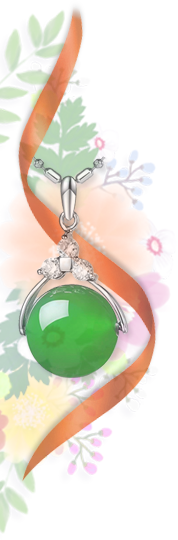
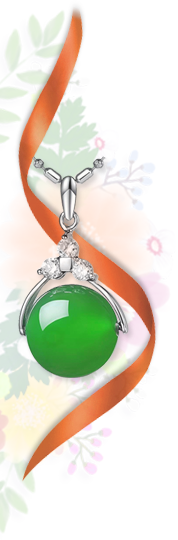
6++

diff --git a/luodiye/6.html b/luodiye/6.html
@@ -14,47 +14,48 @@
 	<body>
 		<!--头版banner-->
 		<div class="banner pos">
-			<img src="6/banner.png" class="full-img" />
-			<a href="http://www.dwntme.com/h.ZZX7m2g?cv=Trqc0P9fhN3&amp;sm=afbcab" class="btn top-btn action" data-animate="zoomIn"></a>
+			<img src="6/banner-.png" class="full-img no-margin" />
+			<img src="6/point.png" class="point action" data-animate="fadeIn" data-delay="0.2s"/>
+			<a href="http://www.dwntme.com/h.ZZX7m2g?cv=Trqc0P9fhN3&amp;sm=afbcab" class="btn top-btn action" data-animate="fadeInDown" data-delay = "0.5s"></a>
 		</div>
 		
 		<div class="intro">
-			<img src="6/2human.png" class="human action" data-animate="fadeIn" alt="" />
-			<div class="para indent">
-				 购买翡翠却不知从何入手？主播带你走进玉都翡翠市场最新颖潮流的翡翠购买模式以最好的服务为您代购心仪翡翠
+			<img src="6/2human.png" class="human action" data-animate="fadeInLeft" alt="" />
+			<div class="para indent action" data-animate="fadeInRight">
+				 购买翡翠却不知从何入手？元合玉主播星星带你走进玉都翡翠市场，在最新颖潮流的翡翠购买模式下，以最好的服务为您代购心仪翡翠。
 			</div>
 		</div>
 		
 		<div class="jade">
-			<h4 class="title color txt-center">翡翠天成 尊贵永恒</h4>
-			<img src="6/3goods.png" class="full-img action" data-animate="fadeIn" />
+			<h4 class="title color txt-center"></h4>
+			<img src="6/3goods.png" class="full-img action" data-animate="zoomIn" />
 		</div>
 		
 		<div class="main">
 			<div class="head">
-				<h4 class="title color txt-center">元合玉翡翠</h4>
+				<h4 class="title color txt-center action" data-animate="fadeInUp"></h4>
 			</div>
-			<div class="para indent action" data-animate="slideInUp" >
-				位于粤东国家文化产业示范基地——阳美玉文化（创意）产业园，拥有专业资质的主播团队，管理严谨，服务一流，是翡翠行业的翘楚，深受广大客户的认可。您的满意使我们最大的动力。
+			<div class="para indent action" data-animate="fadeIn" >
+				公司位于粤东国家文化产业示范基地——阳美玉文化（创意）产业园，拥有专业资质的主播团队，管理严谨，服务一流，是国内翡翠行业的翘楚，深受广大客户的认可，您的满意是我们最大的动力。
 			</div>
 		</div>
 		<ul class="card-list">
 			<li class="card1">
 				<div class="card-title">
-					<div class="chn">阳美玉都 地利人和</div>
-					<div class="eng">YANGMEI THE CITY OF JADE</div>
+					<div class="chn">位于玉都 地利人和</div>
+					<div class="eng">LOCATED IN CITY OF JADE</div>
 				</div>
 				<ul class="left">
-					<li>
+					<li class="action" data-animate="fadeInLeft" >
 						<dl>
 							<dt>翡翠之都</dt>
-							<dd>揭阳阳美是全国最大最集中的翡翠玉器加工基地，加工贸易形成一条龙作业，汇集了南北玉雕工艺大全，独具特色技艺</dd>
+							<dd>揭阳阳美是全国最大最集中的翡翠玉器加工基地，加工贸易形成一条龙作业，汇集了南北玉雕工艺大全，独具特色技艺。</dd>
 						</dl>
 					</li>
-					<li>
+					<li class="action" data-animate="fadeInLeft">
 						<dl>
 							<dt>贸易宝地</dt>
-							<dd>产品销往中国各地以及东南亚国家和地区，将成为中国乃至东南亚等国家和地区的加工生产贸易之宝地</dd>
+							<dd>产品销往中国各地以及东南亚国家和地区，将成为中国乃至东南亚等国家和地区的加工生产贸易之宝地。</dd>
 						</dl>
 					</li>
 				</ul>
@@ -67,10 +68,10 @@
 				</div>
 				<img src="6/6pic.png" class="full-img no-margin left action" data-animate="zoomIn"/>
 				<ul class="right">
-					<li>从业五年以上的经验</li>
-					<li class="pull">丰富的看货选货技巧</li>
-					<li class="pull">每天经手成千上百件</li>
-					<li>切实敬业为顾客服务</li>
+					<li class="action" data-animate="fadeInRight" data-delay="0.0s"><span class="num"></span>从业五年以上的经验</li>
+					<li class="pull action" data-animate="fadeInRight" data-delay="0.2s"><span class="num"></span>丰富的看货选货技巧</li>
+					<li class="pull action" data-animate="fadeInRight" data-delay="0.4s"><span class="num"></span>每天经手成千上百件</li>
+					<li class="action" data-animate="fadeInRight" data-delay="0.6s"><span class="num"></span>切实敬业为顾客服务</li>
 				</ul>
 			</li>
 			<li class="card3">
@@ -78,8 +79,8 @@
 					<div class="chn">专注翡翠 诚信经营</div>
 					<div class="eng">INTERGRITY MANAGEMENT</div>
 				</div>
-				<div class="left para indent">
-					     公司以翡翠网络直播为主，专注服务于翡翠玉器领域十多年，目前已为成千上万客户成功代购到满意的翡翠饰品，深得广大粉丝信任和支持，在行业内赢得高度的赞许和评价，在接下来的日子里必定诚信经营，为您贴心服务
+				<div class="left para indent action" data-animate="fadeInLeft">
+					     公司以翡翠网络直播为主，专注服务于翡翠玉器领域十多年，目前已为成千上万客户成功代购到满意的翡翠饰品，深得广大粉丝信任和支持，在行业内赢得高度的赞许和评价，在接下来的日子里必定诚信经营，为您贴心服务。
 				</div>
 				<img src="6/7pic.png" class="full-img no-margin right action" data-animate="zoomIn"/>
 				
@@ -91,14 +92,15 @@
 		
 		<div class="store">
 			<div class="head color">
-				淘宝店铺
+				<!--<span>淘宝店铺</span>-->
+				<!--<p class="bg-eng"></p>-->
 			</div>
 			<ul class="store-list">
 				<li class="store1">
 					<div class="title color">淘宝平台 安全交易</div>
 					<ul class="list">
-						<li><img class="full-img" src="6/8pic1.png"/></li>
-						<li><img class="full-img" src="6/8pic2.png"/></li>
+						<li><img class="full-img action" data-animate="zoomIn" src="6/8pic1.png"/></li>
+						<li><img class="full-img action" data-animate="zoomIn" src="6/8pic2.png"/></li>
 					</ul>
 					<div class="para indent">
 						     所有从元合玉直播间购买的翡翠都将通过淘宝平台公平交易，绝对保证客户的购买过程安全可靠，为您的钱货提供安全有力的保障，让您放心在我们这里选购翡翠
@@ -107,8 +109,8 @@
 				<li class="store1 store2">
 					<div class="title color">月销十万 好评如潮</div>
 					<ul class="list">
-						<li><img class="full-img" src="6/9pic1.png"/></li>
-						<li><img class="full-img" src="6/9pic2.png"/></li>
+						<li><img class="full-img action" data-animate="zoomIn" src="6/9pic1.png"/></li>
+						<li><img class="full-img action" data-animate="zoomIn" src="6/9pic2.png"/></li>
 					</ul>
 					<div class="para indent">
 						     元合玉翡翠淘宝店铺自从开店以来，大大小小的交易已经达到数十万之多，回头率之高，是众多忠实客户的不二之选，好评如潮，是让您放心交易的信心保证
@@ -117,21 +119,21 @@
 				<li class="store3">
 					<div class="title color">上乘品质 售后保障</div>
 					<ul class="list">
-						<li>
+						<li class="action" data-animate="fadeInRight" data-delay="0.0s">
 							<img src="6/10pic1.png"/>
 							<dl>
 								<dt><span class="color">品质</span>·正品保障</dt>
 								<dd>从直播间售出的宝贝均为翡翠A货，品质有所保障</dd>
 							</dl>
 						</li>
-						<li>
+						<li class="action" data-animate="fadeInRight" data-delay="0.1s">
 							<img src="6/10pic2.png"/>
 							<dl>
 								<dt><span class="color">证书</span>·国家权威</dt>
 								<dd>通过国家权威鉴定机构鉴定并提供相应鉴定证书</dd>
 							</dl>
 						</li>
-						<li>
+						<li class="action" data-animate="fadeInRight" data-delay="0.2s">
 							<img src="6/10pic3.png"/>
 							<dl>
 								<dt><span class="color">售后</span>·贴心服务</dt>
@@ -149,15 +151,15 @@
 			<div class="left">
 				<img src="5/code.png" class="action" data-animate="zoomIn"/>
 				<ul class="detail">
-					<li class="action" data-animate="slideInRight" data-delay="0.0s">上万好货每天不重复直播</li>
-					<li class="action" data-animate="slideInRight" data-delay="0.1s">每天中午十二点准时开播</li>
-					<li class="action" data-animate="slideInRight" data-delay="0.2s">扫一扫，手机关注店铺</li>
+					<li class="action" data-animate="slideInLeft" data-delay="0.0s">上万好货每天不重复直播</li>
+					<li class="action" data-animate="slideInLeft" data-delay="0.1s">每天中午十二点准时开播</li>
+					<li class="action" data-animate="slideInLeft" data-delay="0.2s">扫一扫，手机关注店铺</li>
 				</ul>
 			</div>
 			<div class="right">
 				<div class="btn-wrap">
-					<a href="http://www.dwntme.com/h.ZZX7m2g?cv=Trqc0P9fhN3&amp;sm=afbcab" class="btn bottom-btn1 action" data-animate="slideInLeft"></a>
-					<a href="http://m.tb.cn/h.WvIZ14H" class="btn bottom-btn2 action" data-animate="slideInRight"></a>
+					<a href="http://www.dwntme.com/h.ZZX7m2g?cv=Trqc0P9fhN3&amp;sm=afbcab" class="btn bottom-btn1 action" data-animate="fadeInDown"></a>
+					<a href="http://m.tb.cn/h.WvIZ14H" class="btn bottom-btn2 action" data-animate="fadeInDown"></a>
 				</div>
 			</div>
 			
@@ -188,7 +190,7 @@
 			})
 
 			function showAnimation() {
-				return;
+//				return;
 				$('.action').each(function(idx, ele) {
 					if($(this).offset().top <= $(document).scrollTop() + $(window).height() - 20) {
 						$(this).css({

diff --git a/luodiye/css/6.css b/luodiye/css/6.css
@@ -39,11 +39,11 @@ body{
 }
 .eng{
 	color: #aaaaaa; font-size: 0.3rem;
-	line-height: 0.36rem; 
+	line-height: 0.36rem; letter-spacing: 0.02rem;
 }
 .chn{
-	color: #444444; font-size: 0.36rem;
-	 font-weight: bold;
+	color: #049983;font-size: 0.4rem;
+    line-height: 0.5rem;
 }
 .detail{
 	color: #666666; font-size: 0.26rem;
@@ -67,11 +67,14 @@ body{
 	width: 2.7rem; height: 0.7rem;
     top: 2.5rem; left: 1.4rem;
 }
-.banner img{ margin: 0;}
+.banner .point{
+	width: 4.9rem; height: 5.4rem; bottom:1.2rem;
+	position: absolute; left: 50%; margin-left: -2.45rem;
+}
 
 .intro{
-	margin-top: -0.35rem; overflow: hidden;
-	padding-bottom: 1rem;
+	margin-top: -0.3rem; overflow: hidden;
+	padding-bottom: 0.8rem;
 }
 .intro .human{
 	width: 40%;display: inline-block;
@@ -79,26 +82,33 @@ body{
 }
 .intro .para{
 	width: 60%;display: inline-block;
-	float: left; margin-top: 1rem; 
-	padding: 0 0.4rem;font-size: 0.28rem;
+	float: left; margin-top: 0.8rem; 
+	padding: 0 0.2rem;font-size: 0.28rem;
 }
 
 .jade{
 	padding:0 0.2rem;
 }
 .jade .title{
-	font-size: 0.36rem;
+	font-size: 0.36rem; height: 0.7rem;
+	background: url(../6/3title.png) center center no-repeat;
+	background-size: auto 100%;
+}
+.jade .title-bg{
+	height: 0.6rem; margin-top: -0.1rem;
+	background: url(../6/3title.png) center center no-repeat;
+	background-size: auto 100%;
 }
 
 .main{
-	position: relative; height: 6.7rem; margin-top: 0.7rem;
+	position: relative; height: 6.7rem; margin-top: 0.5rem;
 	background: url(../6/4flower.png) center bottom no-repeat;
 	background-size: 100% auto;
 }
 .main .head{
-	position: absolute;top: 0;left: 50%;
-	width: 5.3rem; height: 1.8rem;margin-left: -2.65rem;
-	background: url(../6/4title.png) center center no-repeat;
+	position: absolute;top: 0.4rem;left: 50%;
+	width: 4rem; height: 1.1rem;margin-left: -2rem;
+	background: url(../6/4title2.png) center center no-repeat;
 	background-size: 100% 100%;
 }
 .main .title{
@@ -112,7 +122,7 @@ body{
 .card-list{
 	margin-top: -1.2rem;
 }
-.card-list li{
+.card-list>li{
 	padding-left: 0.2rem;padding-right: 0.2rem;
 }
 .card-list .left,.card-list .right{
@@ -137,13 +147,16 @@ body{
 	text-indent: 0.48rem; line-height: 0.3rem;
 }
 .card1 img{
-	margin-top: 0.6rem;
+	margin-top: 0.8rem;
 }
 
 .card2{
 	height: 7.45rem; padding-top: 0.6rem;
 	background: url(../6/6bg.png);
 	background-size: 100% 100%;
+}
+.card2 .left{
+	padding: 0 0.1rem;margin-top: 0.2rem;
 }
 .card2 .right{
 	padding-top: 0.2rem; margin-left: -0.2rem;
@@ -157,6 +170,24 @@ body{
 .card2 .right li.pull{
 	margin-left: 0.6rem;
 }
+.num{
+	 background-size: 100% 100%;
+	padding: 0.04rem 0.19rem;
+    margin-left: 0.2rem;
+    margin-right: 0.1rem;
+}
+.card2 .right li:nth-child(1) .num{
+	background-image:url(../6/1.png) ;
+}
+.card2 .right li:nth-child(2) .num{
+	background-image:url(../6/2.png) ;
+}
+.card2 .right li:nth-child(3) .num{
+	background-image:url(../6/3.png) ;
+}
+.card2 .right li:nth-child(4) .num{
+	background-image:url(../6/4.png) ;
+}
 
 .card3{
 	height: 7.45rem; padding-top: 0.6rem;
@@ -164,16 +195,24 @@ body{
 	background-size: 100% 100%;
 }
 .card3 img{
-	margin-top: 0.6rem;
+	margin-top: 0.4rem;
 }
 
-
+.store{
+	margin-top: -0.4rem;
+}
 .store .head{
-	font-size: 0.48rem; font-weight: bold;
-	padding-left: 0.2rem;
+	width: 2.5rem; height: 0.8rem;
+	background: url(../6/8title2.png);
+	background-size: 100% 100%;
+	font-size: 0.48rem; margin-left: 0.4rem;
+}
+.store .head .bg-eng{
+	height: 0.4rem; background: url(../6/eng.png) no-repeat;
+	background-size: auto 100%;
 }
 .store-list{
-	padding: 0 0.2rem; margin-top: 0.4rem;
+	padding: 0 0.2rem; margin-top: 0.6rem;
 }
 .store-list>li{
 	position: relative; height: 7rem; margin-bottom: 0.75rem;
@@ -226,6 +265,8 @@ body{
 .store3 .list img{
 	width: 1.65rem; height: 1.65rem; 
 	position:absolute; top: 0; left: 0;
+	border-radius: 50%;
+    box-shadow: 2px 2px 5px rgba(0,0,0,0.3);
 }
 .store3 .list dl{
 	margin-left: 1.65rem; padding: 0.25rem 0.1rem 0;
@@ -303,7 +344,7 @@ body{
 
 /*辅助=========================================*/
 .action{
-	/*opacity: 0;*/
+	opacity: 0;
 }
 .hidden{
 	display: none;
@@ -339,12 +380,6 @@ body{
 .txt{
 	font-size: 14px;
     line-height: 25px;
-}
-.right{
-	text-align: right;
-}
-.left{
-	text-align: left;
 }
 .box{
 	text-align: center; padding: 20px 10px 10px;
